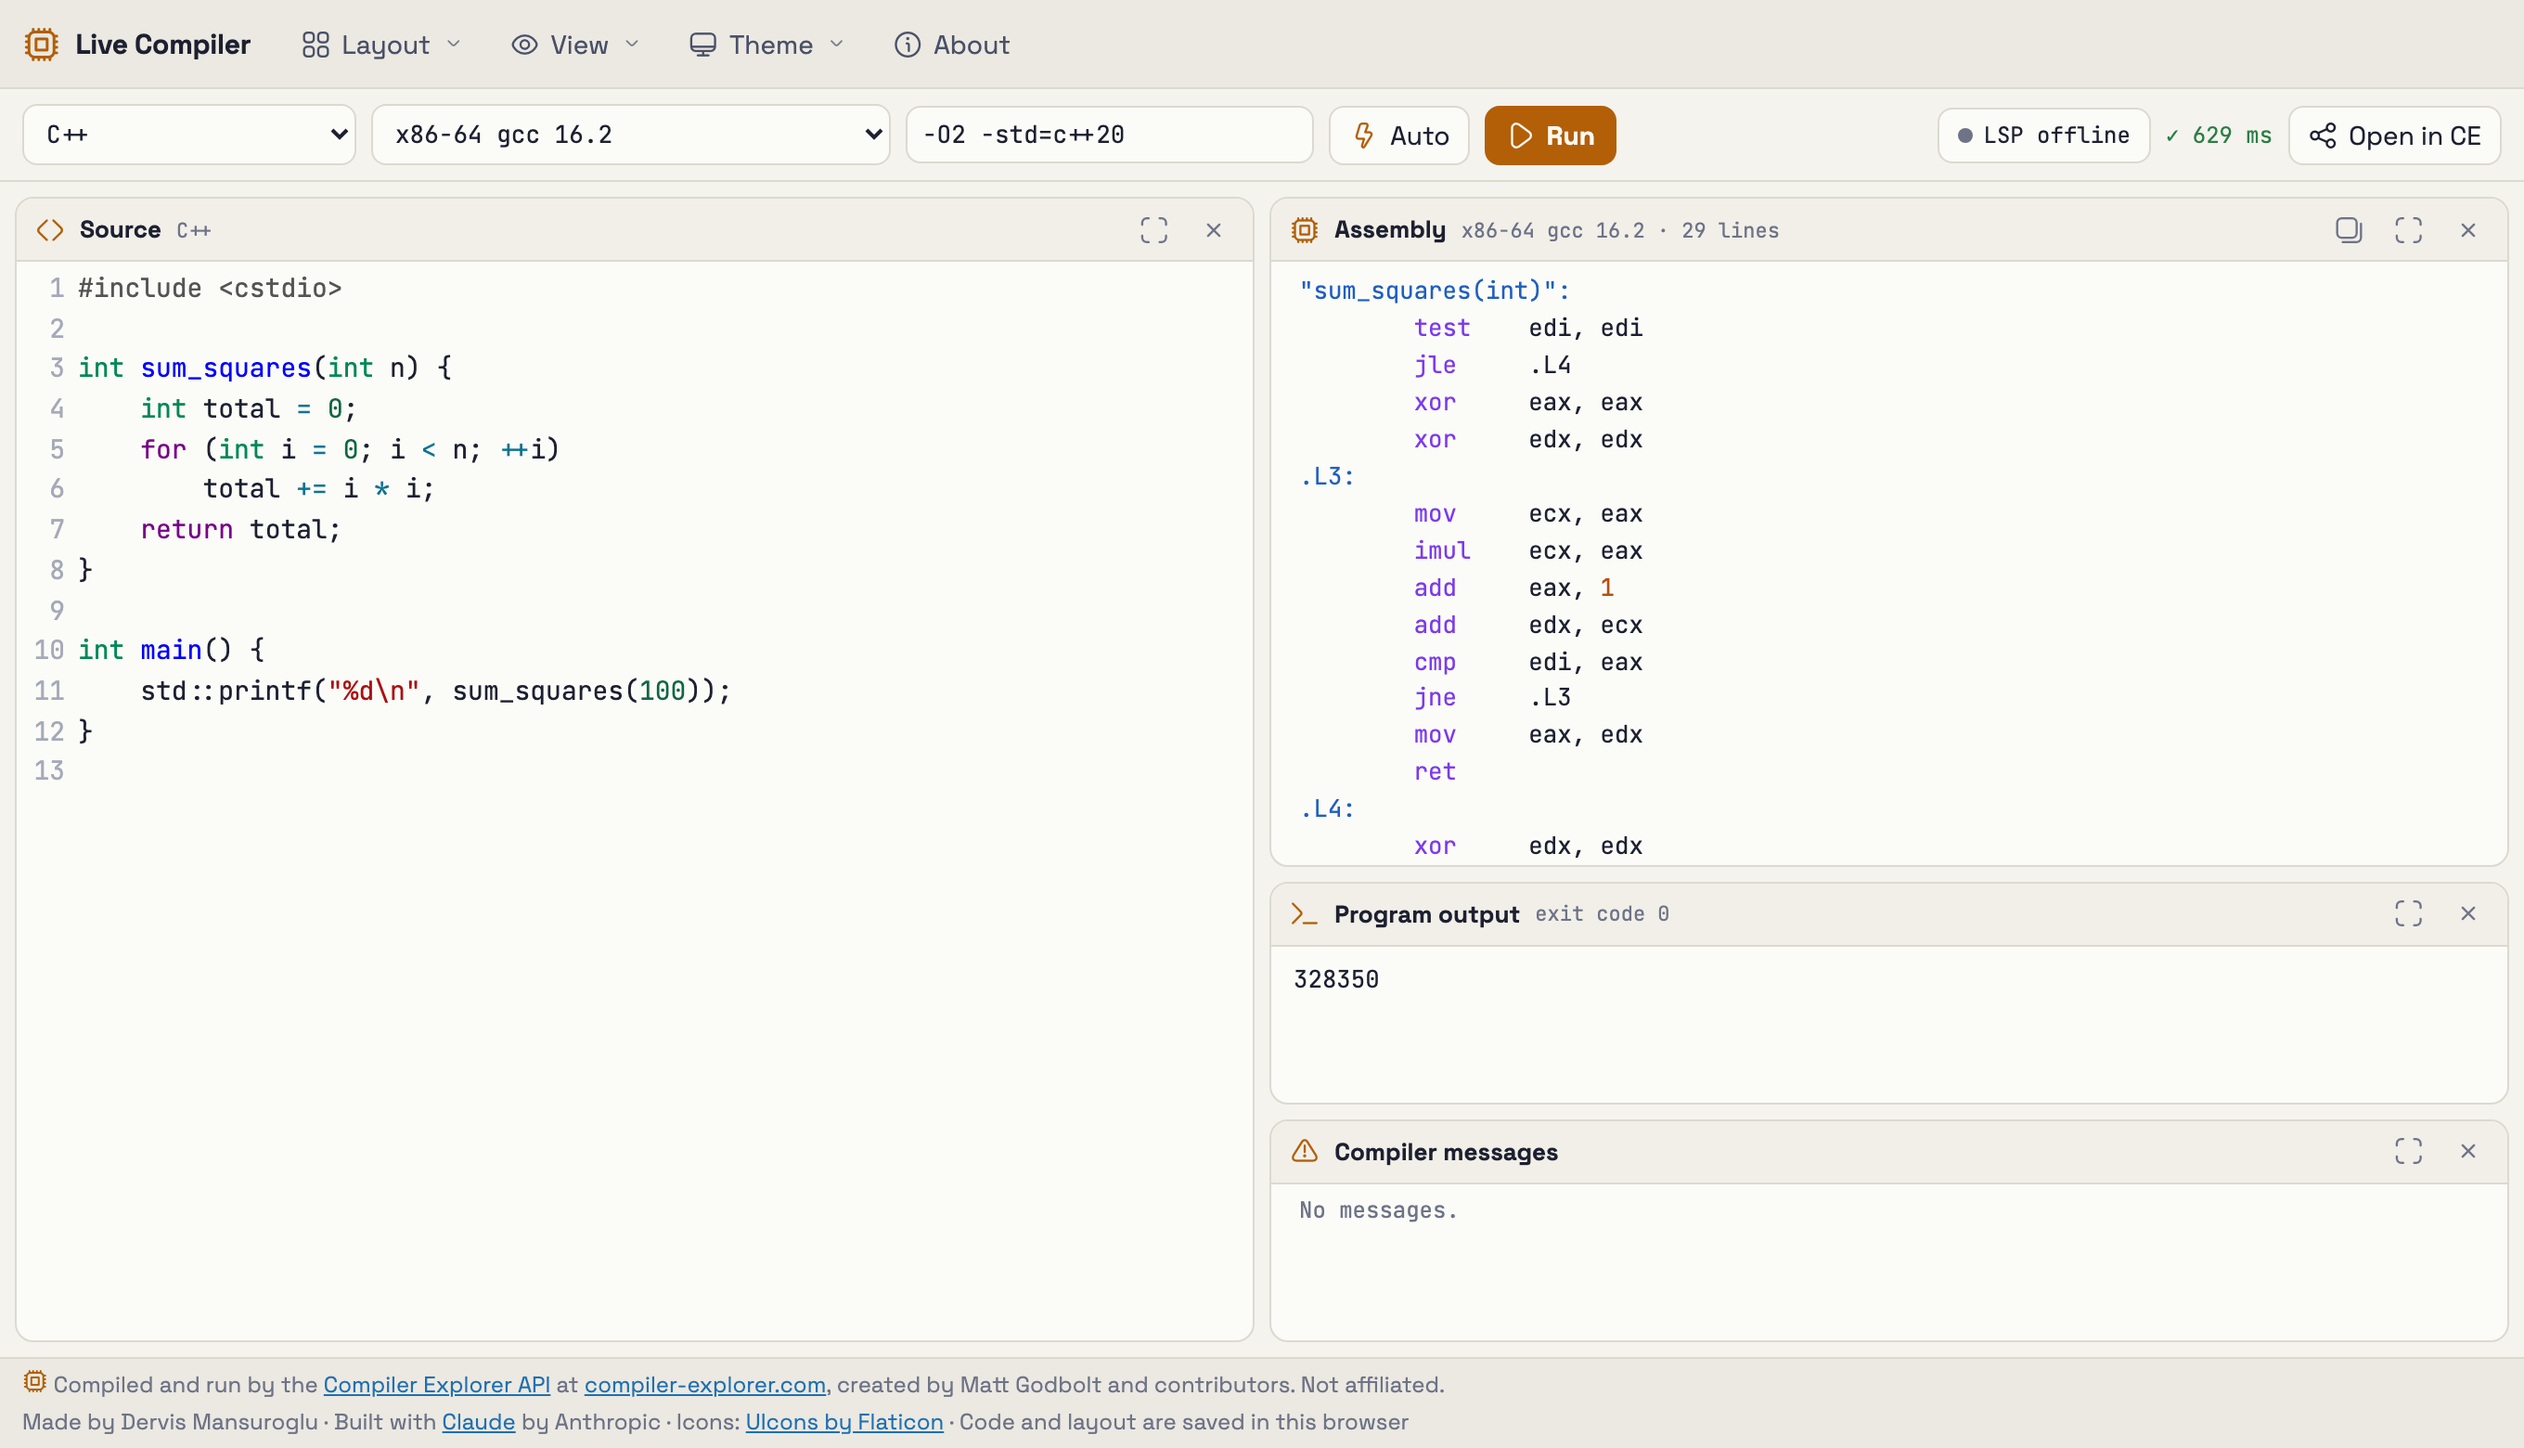
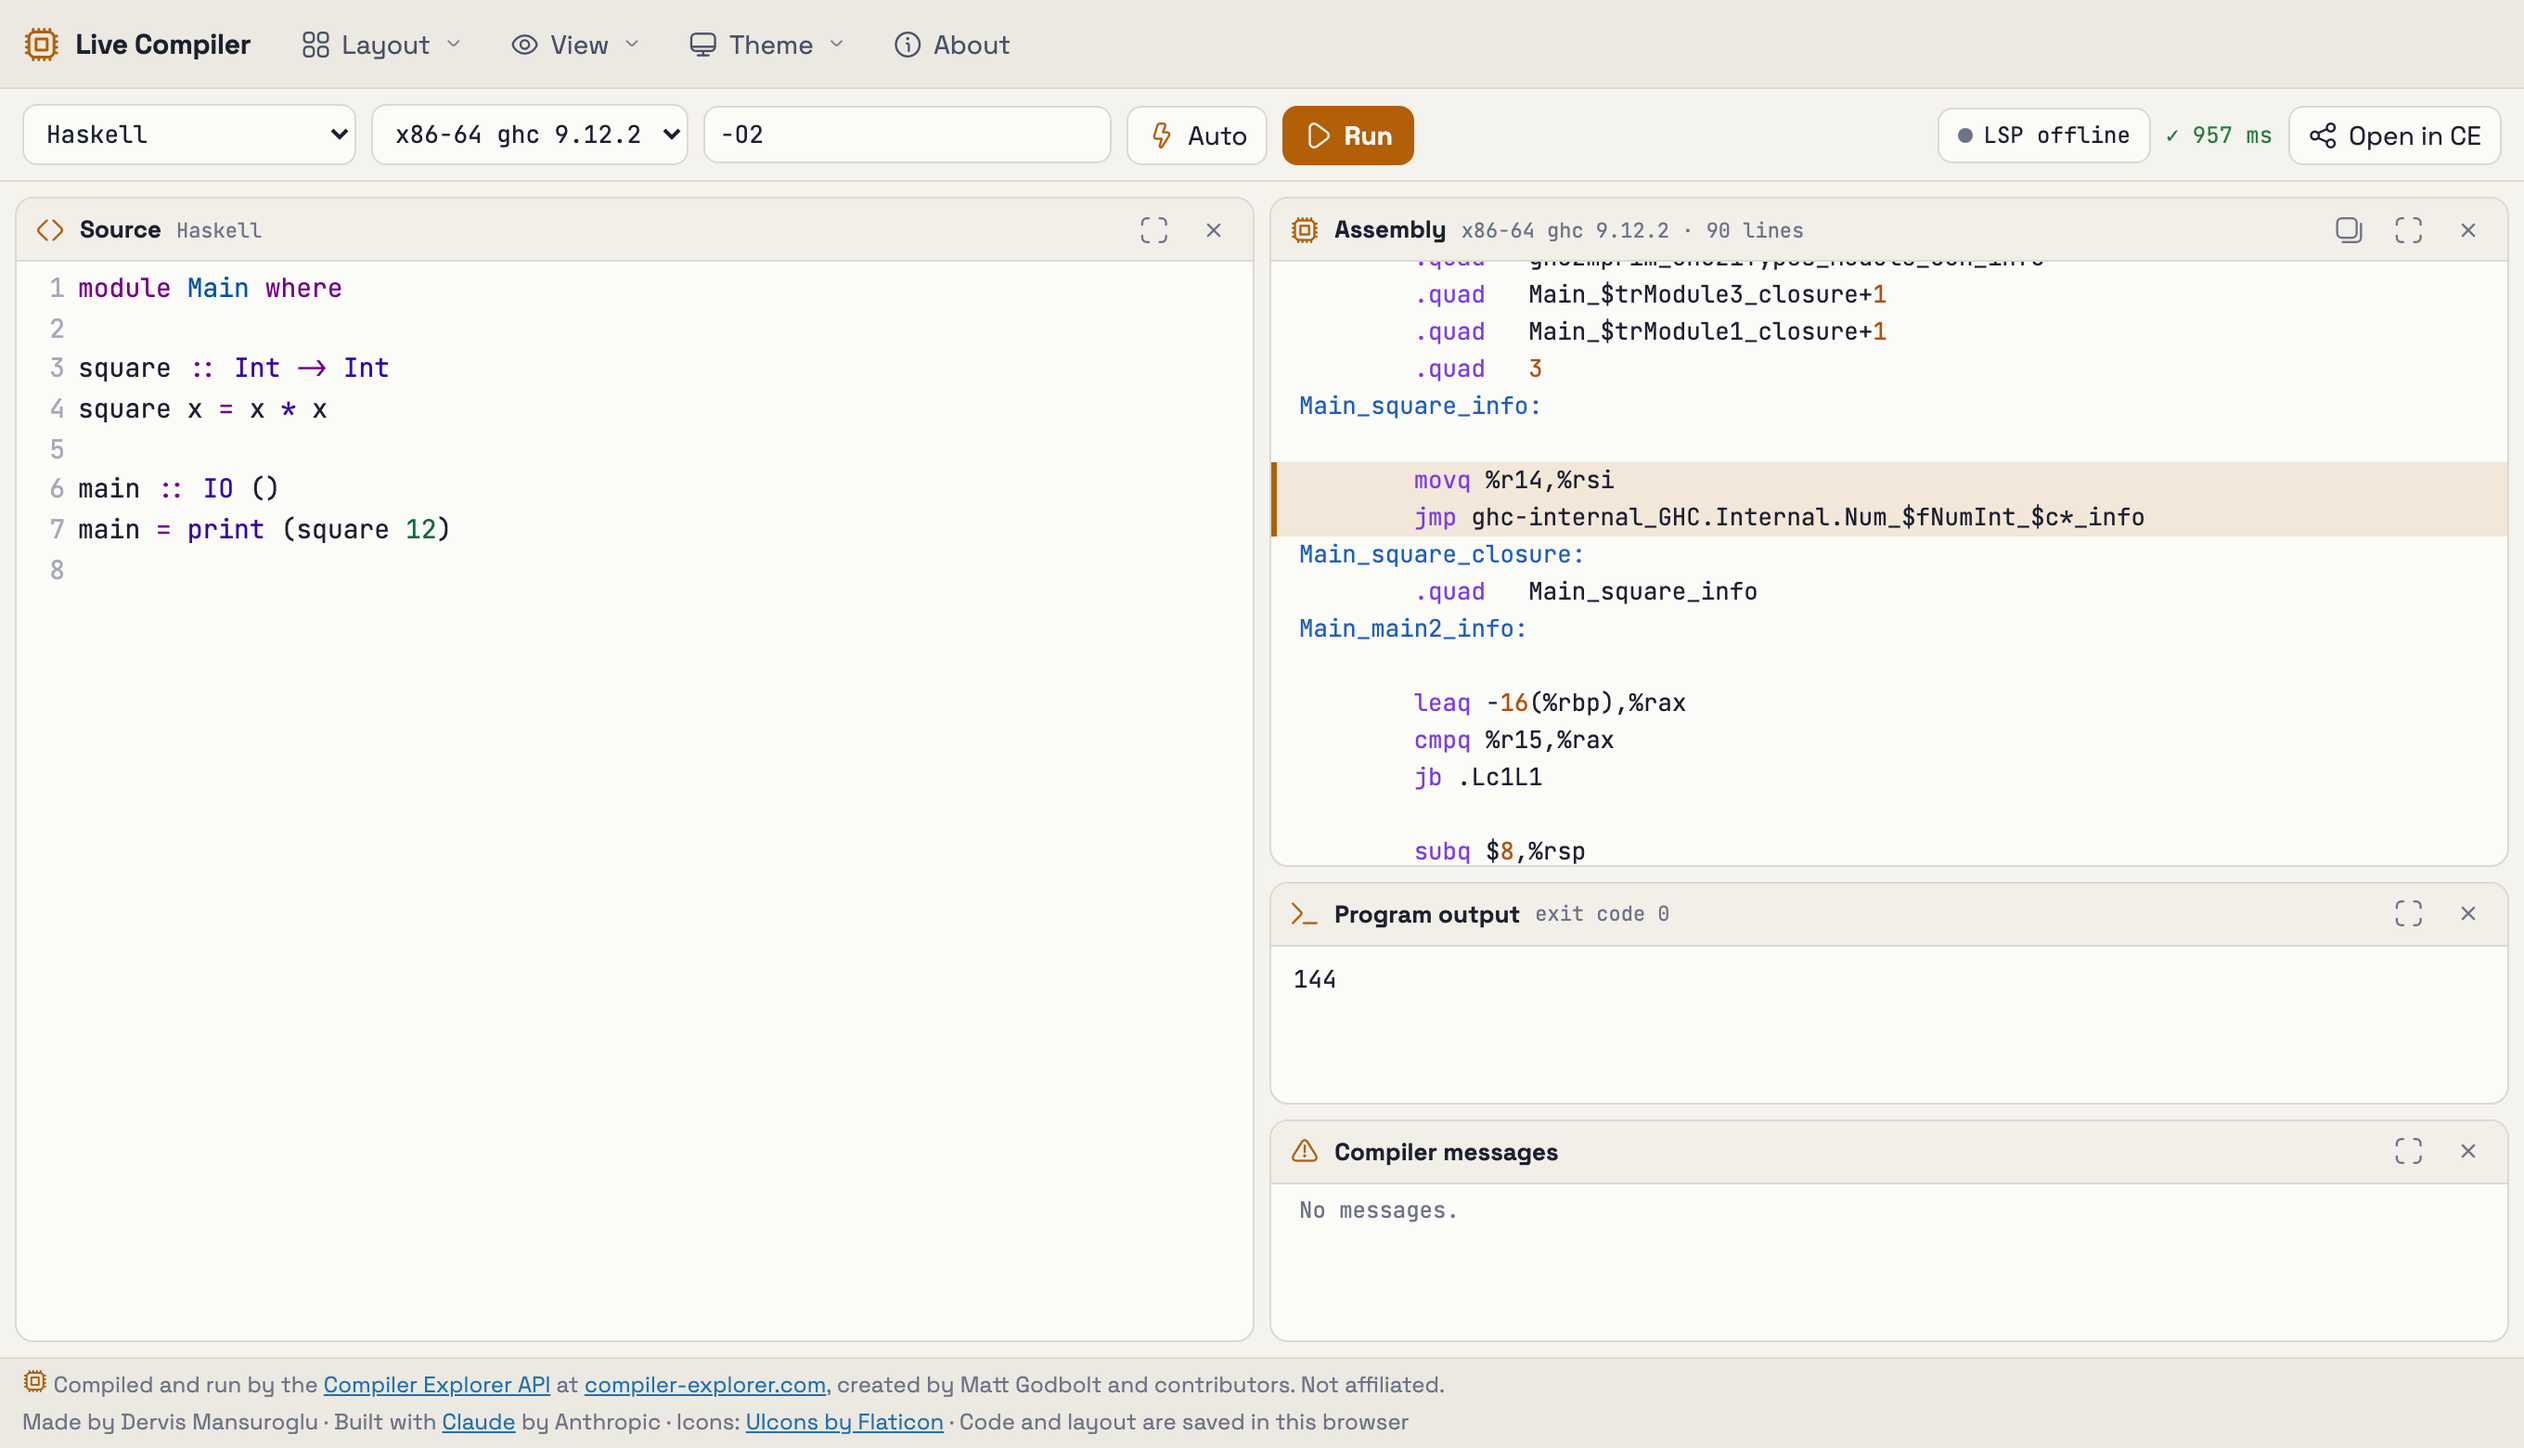
Show Haskell in the README screenshot
The Haskell starter compiled with GHC 9.12.2, with the cursor on
`square x = x * x` so its assembly is highlighted.

diff --git a/README.md b/README.md
@@ -2,7 +2,7 @@
 
 A code editor in a single HTML file that compiles as you type. It sends your code to the [Compiler Explorer](https://compiler-explorer.com/) API and shows the assembly, the program's output and the compiler's messages side by side, in panels you can resize, dock and hide.
 
-![Live Compiler with C++ source, its assembly and the program output](docs/screenshot.png)
+![Live Compiler with Haskell source, the assembly for the highlighted line and the program output](docs/screenshot.png)
 
 ## Features
 
